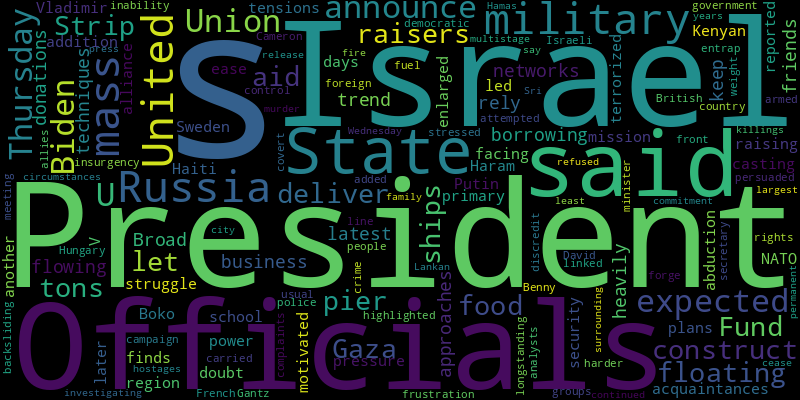
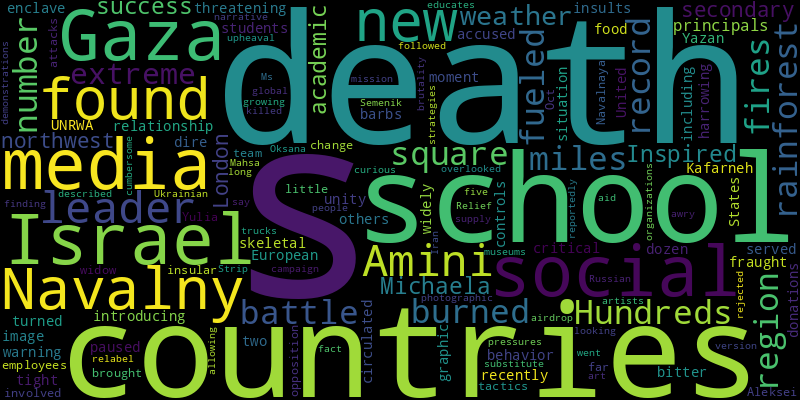
chore(bot): 👻 auto commit

diff --git a/README.md b/README.md
@@ -2,32 +2,33 @@
 Auto RSS New York Times and Generate Word Cloud
 
 ## New York Times Global News
-* Officials said President Biden was expected to announce in his State of the Union on Thursday that the U.S. military would construct a floating pier off the Gaza Strip to let ships deliver tons of food and other aid.
-* Fund-raisers are borrowing heavily from business techniques to keep donations flowing to the military. The latest trend? Broad approaches that rely on networks of friends and acquaintances.
-* The power struggle in Haiti is raising pressure on the United States to ease tensions while casting doubt on plans for a Kenyan-led security mission.
-* With the addition of Sweden to NATO, President Vladimir V. Putin of Russia finds himself facing an enlarged and motivated alliance.
-* A mass abduction reported in a region terrorized by Boko Haram, and another days later at a primary school, highlighted the government’s inability to control crime and armed insurgency.
-* The French president attempted to forge a united front on a harder line against Russia. But few were persuaded.
-* A meeting between the British foreign secretary, David Cameron, and an Israeli minister, Benny Gantz, carried more weight than usual, analysts said, and stressed the frustration of Israel’s allies.
-* A covert campaign to entrap and discredit people linked to rights groups in Hungary has added fuel to longstanding complaints of democratic backsliding in the country.
-* The police are investigating the circumstances surrounding the killings on Wednesday of a Sri Lankan family, the city’s largest mass murder in at least 30 years.
-* Officials say Hamas has continued to press Israel for a commitment to a permanent cease-fire after a multistage release of all hostages, but Israel has refused.
+* Hundreds of square miles of the rainforest have burned as countries in the region battle a record number of fires fueled by extreme weather.
+* Inspired by the academic success of schools like the Michaela secondary school in northwest London, some principals are introducing tight controls on students’ behavior.
+* A fraught relationship has recently turned bitter, with insults and barbs threatening European unity at a critical moment.
+* The harrowing image of a skeletal Yazan Kafarneh circulated widely on social media and has served as a graphic warning about the enclave’s dire food situation.
+* The two countries and others, including the United States, paused donations after Israel accused about a dozen of UNRWA’s 13,000 employees in Gaza of being involved in the Oct. 7 attacks.
+* Aleksei Navalny’s team has found a new leader in the opposition leader’s widow, Yulia Navalnaya. But Navalny’s death has so far brought little change to their insular tactics.
+* A photographic narrative of the growing upheaval.
+* Oksana Semenik’s social media campaign both educates the curious about overlooked Ukrainian artists — and pressures global museums to relabel art long described as Russian.
+* A fact-finding mission looking into the demonstrations that followed the death of Mahsa Amini found brutality and rejected Iran’s version of Ms. Amini’s death.
+* Relief organizations say cumbersome new strategies cannot substitute for Israel allowing more supply trucks into the Gaza Strip, while an airdrop of aid reportedly went awry and killed five people.
 
 ![Global](./global.png)
 ## New York Times United States News
-* A claim made about the prosecutor, Fani Willis, at a State Senate hearing proved false, but it hinted at the turbulence she might face even if an effort to disqualify her fails.
-* A laboratory found a pattern of cell damage that has been seen in veterans exposed to weapons blasts, and said it probably played a role in symptoms the gunman displayed before the shooting.
-* A commission in Maine asked former colleagues of the shooter about key moments of inaction before the rampage.
-* An investigator for the city of Uvalde found that despite the many failures from police officers during a 2022 school shooting, they did not violate protocol and acted in good faith.
-* Powerful winds last week pushed Lake Manly, a temporary body of water, two miles from its original location in the national park.
-* The president used his State of the Union speech to pitch tax increases for the rich, along with plans to cut costs and protect consumers.
-* The new format cuts nearly an hour out of the exam and has shorter reading passages.
+* The initiative allows up to 360,000 people a year from Cuba, Haiti, Nicaragua and Venezuela to live and work in the United States if supported by a financial sponsor.
 * How “Oppenheimer,” a movie about the men who developed the atomic bomb, met the new standards.
-* The former president believes his pick to lead the Republican National Committee, Michael Whatley, is more in sync with his views about voter fraud than Ronna McDaniel, who steps aside Friday.
-* The president’s call for aid to Ukraine and his pledge of assistance for Gaza came against a backdrop of Republican opposition, splits in his own party and tension with allies.
+* Exposure to blasts, even at low levels, may play a much greater role in veterans’ mental health struggles than has been known, with implications for treatment strategies and for criminal justice.
+* South Carolina Salkehatchie had no budget, players or running water in the locker room when Matt Lynch arrived. One season in, the first publicly gay head coach is figuring out how to win, on the court and off.
+* This weekend and next, Miami Beach visitors will face extraordinary measures meant to head off disorderly crowds, including bag checks at beach entrances and closed parking garages.
+* Americans love a candidate who promises something new. But when a sitting president runs against a former one, can either claim the mantle of change?
+* The helicopter, patrolling in southern Texas, was carrying soldiers and a Border Patrol agent, officials said.
+* The president pointed toward his efforts to ease restrictions on cannabis, a potential signal that he could talk more during the campaign about an issue he has been reluctant to embrace.
+* The White House said the executive branch was halting shutdown preparations and that President Biden would sign the bill on Saturday. But the spending fight isn’t over yet.
+* The president’s decision to send aid by air and sea represents a shift prompted by the growing humanitarian crisis. But it raised uncomfortable questions about America’s role.
 
 ![US](./usnews.png)
 ## New York Times Asia News
+* Toyota, the world’s largest automaker, has been criticized for selling few electric vehicles, but its decision to focus on hybrids is paying off financially.
 * Three days before the 2003 ceremony, the United States invaded Iraq. Despite pleas to delay the awards, the academy went ahead with what became a politics-suffused evening.
 * His popular manga inspired numerous television, film and video game adaptations, reaching fans far beyond Japan’s borders.
 * The proposed law targets political offenses like treason and insurrection with penalties as harsh as life imprisonment, giving officials more power to curb dissent.
@@ -37,6 +38,5 @@ Auto RSS New York Times and Generate Word Cloud
 * Linwei Ding, a Chinese national, was arrested in California and accused of uploading hundreds of files to the cloud.
 * Temu, Shein, and streaming and gaming apps looking to break into the U.S. market are spending huge sums to get their wares in front of American consumers.
 * Also, Israel-Hamas talks stall before Ramadan.
-* The disappearance of the Malaysia Airlines flight has remained one of the greatest aviation mysteries of all time. A new search may begin soon.
 
 ![Asian](./asian.png)
